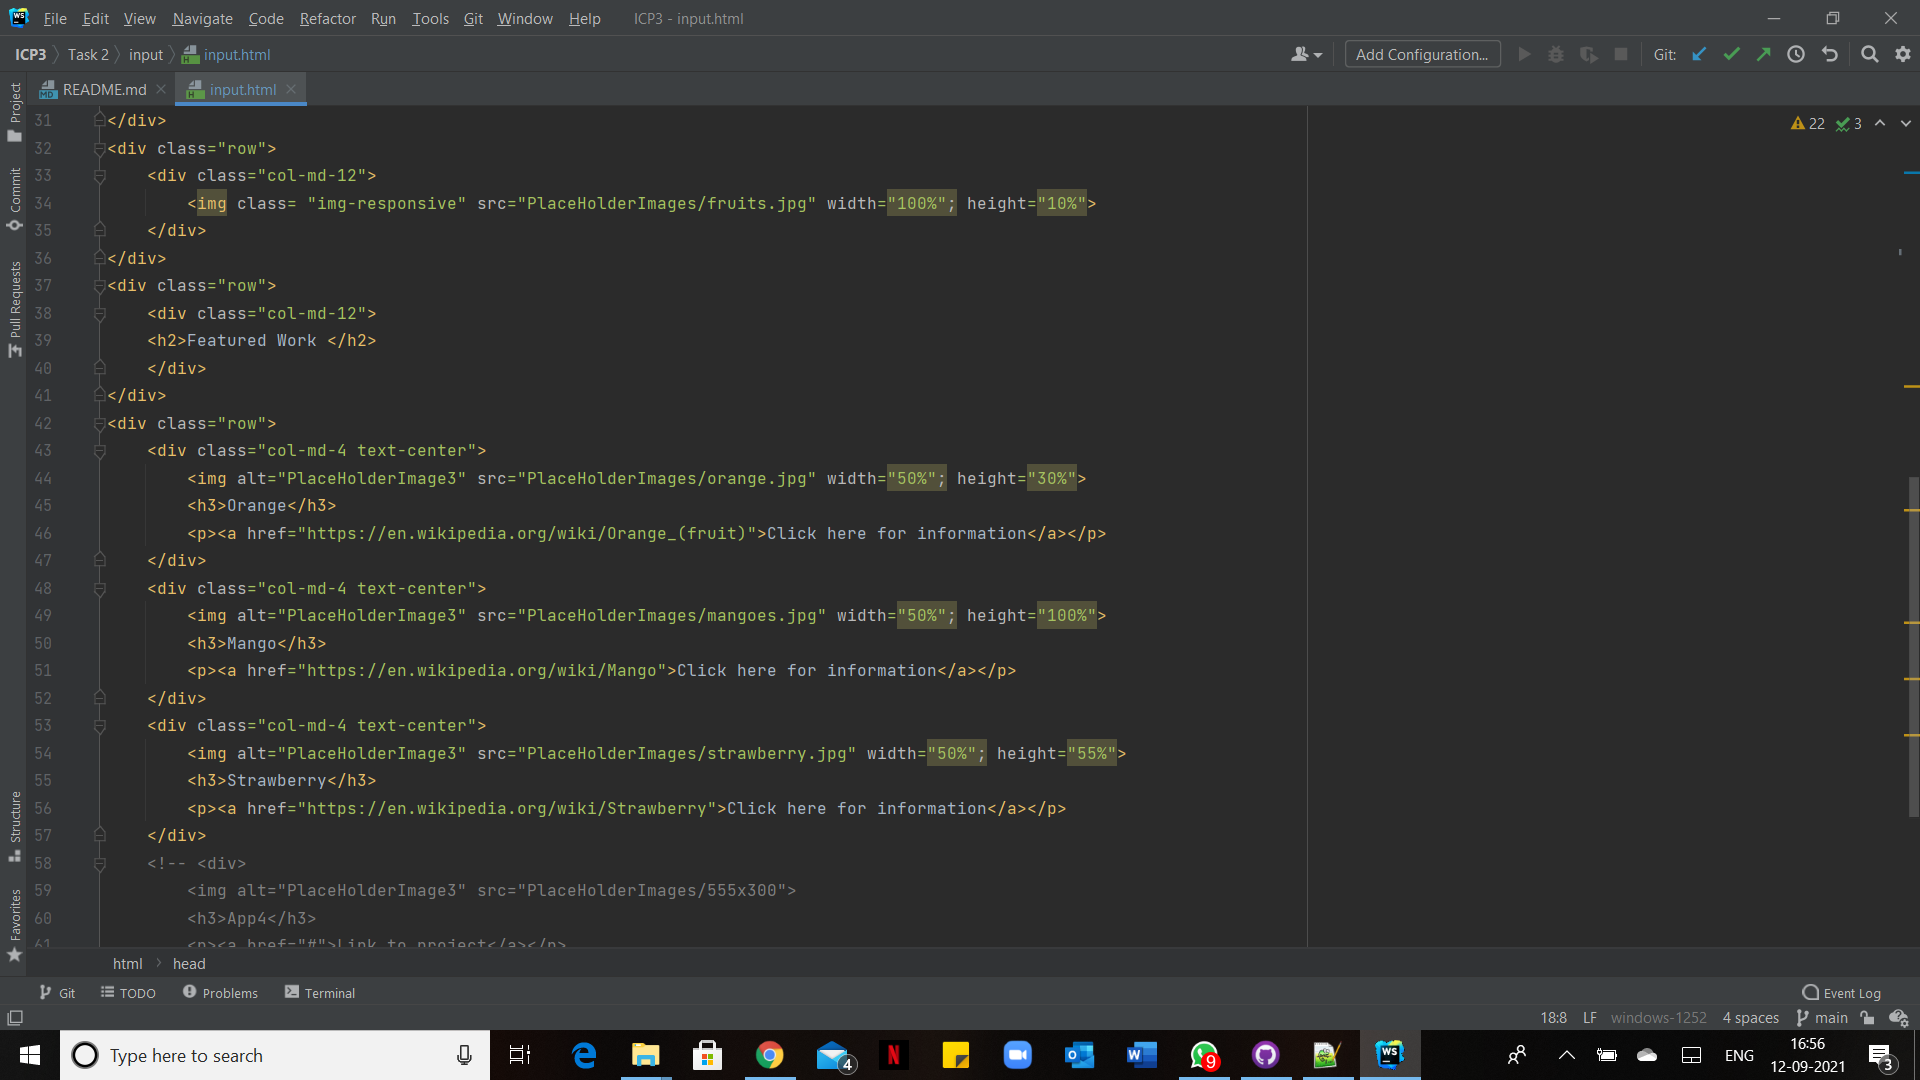
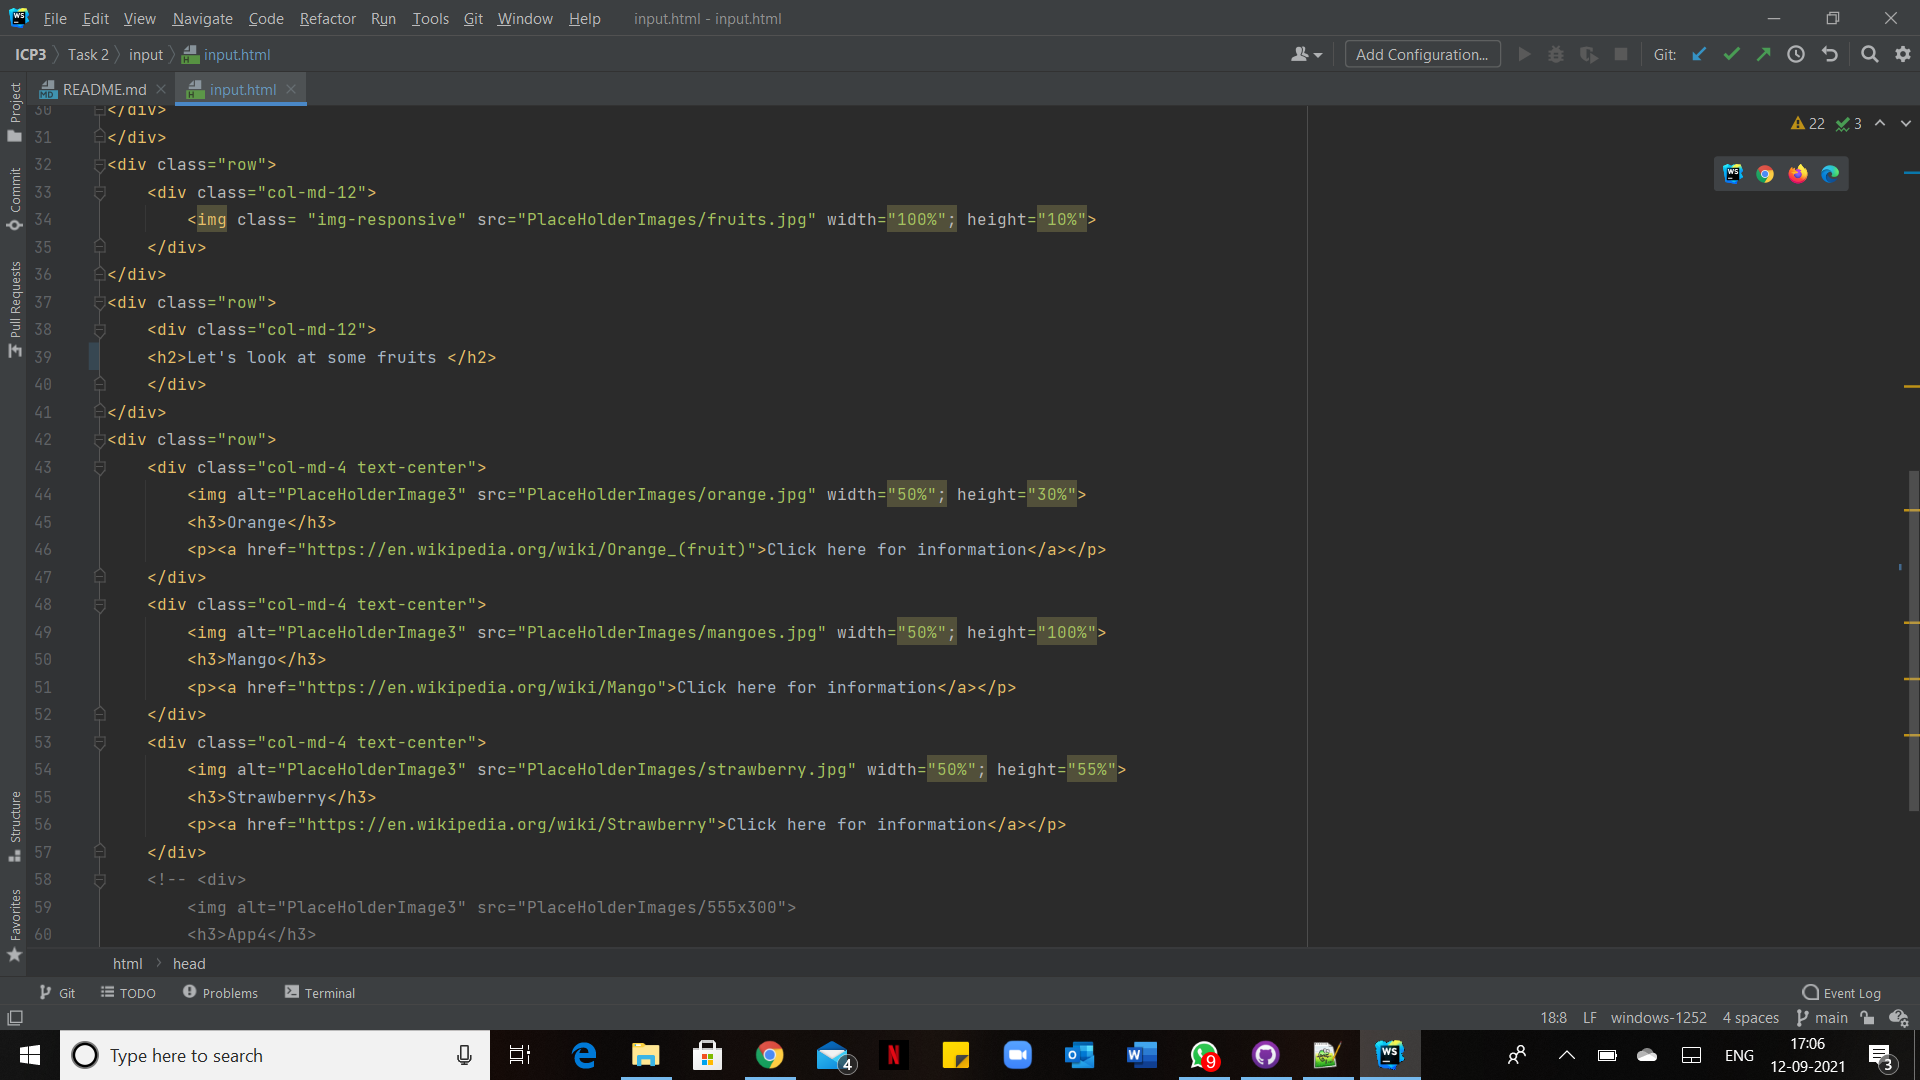
created

diff --git a/Task 2/input/input.html b/Task 2/input/input.html
@@ -36,7 +36,7 @@ TODO:
 </div>
 <div class="row">
 	<div class="col-md-12">
-    <h2>Featured Work </h2>
+    <h2>Let's look at some fruits </h2>
 	</div>
 </div>
 <div class="row">
